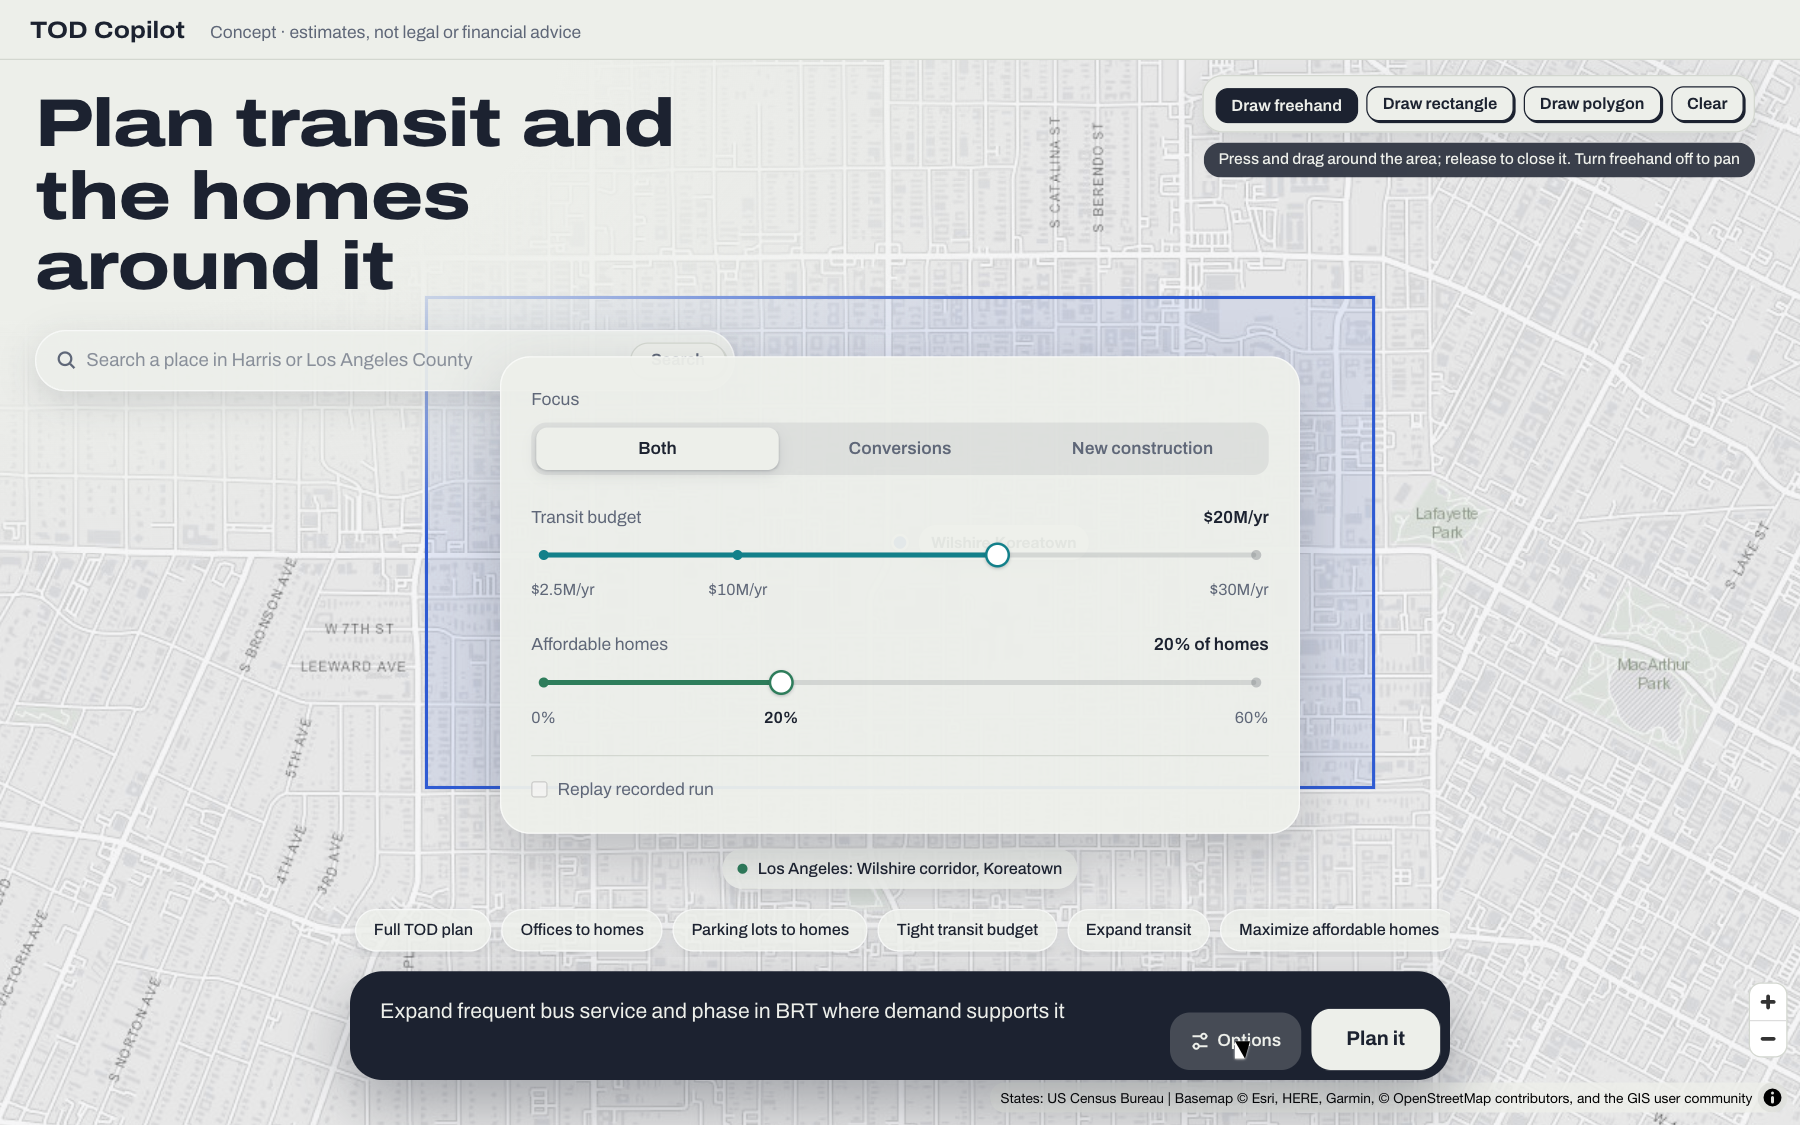
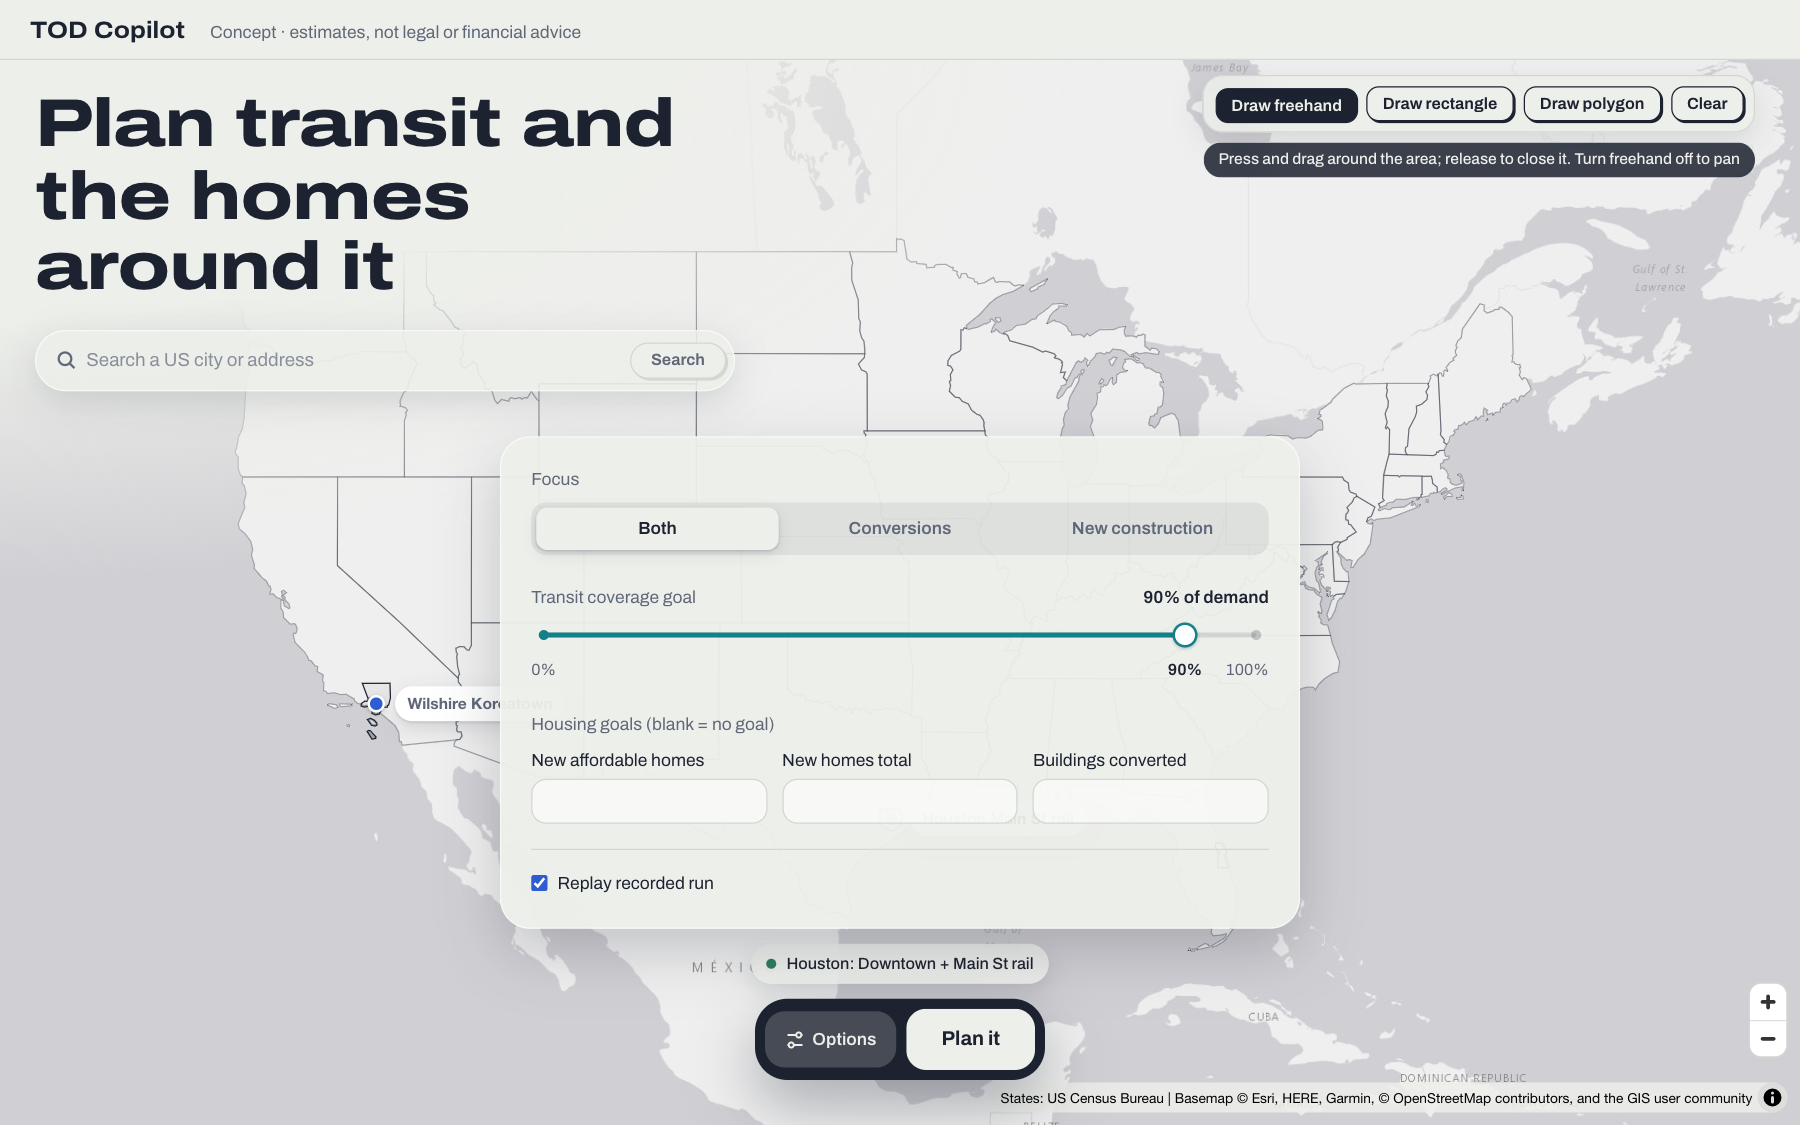
UI: drop the prompt text bar from the home page; bottom bar is Options + Plan it
- Removed the free-text prompt and the stock prompt chips that filled it; plans run with an empty prompt and
  the options chosen in the Options popover (focus and goals).
- The bottom bar shrinks to Options and Plan it; the popover stays centred over it.

diff --git a/frontend/src/screens/PromptScreen.tsx b/frontend/src/screens/PromptScreen.tsx
@@ -1,6 +1,6 @@
 import { useEffect, useRef, useState, type CSSProperties } from 'react'
 import { useNavigate } from 'react-router-dom'
-import { areaCheck, createPlan, geocode, getLocales, parsePrompt, stockPrompts } from '../api'
+import { areaCheck, createPlan, geocode, getLocales } from '../api'
 import Disclaimer from '../components/Disclaimer'
 import AreaPicker, { type PolygonGeometry } from '../components/AreaPicker'
 import Segmented from '../components/Segmented'
@@ -14,7 +14,6 @@ import {
   type Locale,
   type PlanGoals,
   type PlanOptions,
-  type StockPrompt,
 } from '../types'
 
 const REPLAY_HINT = 'Replays exist only for whole recorded areas with default options; this runs live'
@@ -33,8 +32,8 @@ const HOUSING_GOALS: { key: Exclude<keyof PlanGoals, 'transit_coverage_pct'>; la
 // A UI limit, not a model factor: the backend accepts any coverage goal from 0 to 100.
 const COVERAGE_RANGE = { min: 0, max: 100, step: 5 }
 
-// Screen space the floating headline, search and prompt bar cover, so the US view and fly-tos land in what is left.
-const MAP_PADDING = { top: 150, right: 24, bottom: 230, left: 24 }
+// Screen space the floating headline, search and bottom bar cover, so the US view and fly-tos land in what is left.
+const MAP_PADDING = { top: 150, right: 24, bottom: 140, left: 24 }
 
 export default function PromptScreen() {
   const navigate = useNavigate()
@@ -47,14 +46,9 @@ export default function PromptScreen() {
   const [query, setQuery] = useState('')
   const [results, setResults] = useState<GeocodeResult[] | null>(null)
   const [searching, setSearching] = useState(false)
-  const [stock, setStock] = useState<StockPrompt[]>([])
-  const [prompt, setPrompt] = useState('')
   const [options, setOptions] = useState<PlanOptions>(DEFAULT_PLAN_OPTIONS)
-  const [focusTouched, setFocusTouched] = useState(false)
   const [replay, setReplay] = useState(true)
   const [submitting, setSubmitting] = useState(false)
-  const parseSeq = useRef(0)
-  const typing = useRef(0)
   const [optionsOpen, setOptionsOpen] = useState(false)
   const optionsRef = useRef<HTMLDivElement>(null)
   const optionsButtonRef = useRef<HTMLButtonElement>(null)
@@ -82,26 +76,7 @@ export default function PromptScreen() {
         if (ls.length) setSelected((s) => s ?? ls[0].id)
       })
       .catch((e: Error) => setError(e.message))
-    stockPrompts()
-      .then(setStock)
-      .catch(() => {
-        // chips are optional; the free-text prompt still works
-      })
   }, [])
-
-  // Free text steers the focus until the user picks one.
-  useEffect(() => {
-    if (focusTouched || !prompt.trim()) return
-    const seq = ++parseSeq.current
-    const t = setTimeout(() => {
-      parsePrompt(prompt)
-        .then((p) => {
-          if (seq === parseSeq.current) setOptions((o) => ({ ...o, focus: p.focus }))
-        })
-        .catch(() => {})
-    }, 300)
-    return () => clearTimeout(t)
-  }, [prompt, focusTouched])
 
   // Server decides what a drawn boundary runs as (sub-area, metro, or rejected).
   const [check, setCheck] = useState<AreaCheck | null>(null)
@@ -128,10 +103,7 @@ export default function PromptScreen() {
   const replayAllowed = wholeLocale !== null && defaultOptions
   const replayOn = replay && replayAllowed
   const areaOk = wholeLocale !== null || (check !== null && check.kind !== null && !check.error)
-  const canSubmit = areaOk && !submitting && (replayOn || prompt.trim().length > 0)
-
-  const chipLocaleId = areaLocaleId ?? (check?.kind === 'metro' ? check.sources_from : null)
-  const visibleStock = stock.filter((p) => p.locale_id === null || p.locale_id === chipLocaleId)
+  const canSubmit = areaOk && !submitting
 
   const onBoundary = (b: PolygonGeometry | null) => {
     setBoundary(b)
@@ -177,34 +149,7 @@ export default function PromptScreen() {
     }
   }
 
-  // A stock prompt types itself into the box (instantly under reduced motion).
-  const pickStock = (p: StockPrompt) => {
-    clearInterval(typing.current)
-    setOptions({
-      ...DEFAULT_PLAN_OPTIONS,
-      ...p.options,
-      goals: { ...DEFAULT_PLAN_OPTIONS.goals, ...p.options.goals },
-    })
-    setFocusTouched(false)
-    parseSeq.current++ // drop any in-flight parse of the old text
-    if (window.matchMedia('(prefers-reduced-motion: reduce)').matches) {
-      setPrompt(p.prompt)
-      return
-    }
-    let n = 0
-    const step = Math.max(1, Math.ceil(p.prompt.length / 30))
-    typing.current = window.setInterval(() => {
-      n = Math.min(p.prompt.length, n + step)
-      setPrompt(p.prompt.slice(0, n))
-      if (n >= p.prompt.length) clearInterval(typing.current)
-    }, 16)
-  }
-  useEffect(() => () => clearInterval(typing.current), [])
-
-  const setFocus = (v: PlanOptions['focus']) => {
-    setOptions((o) => ({ ...o, focus: v }))
-    setFocusTouched(true)
-  }
+  const setFocus = (v: PlanOptions['focus']) => setOptions((o) => ({ ...o, focus: v }))
 
   const setGoal = (k: keyof PlanGoals, v: number | null) => {
     setOptions((o) => ({ ...o, goals: { ...o.goals, [k]: v } }))
@@ -223,7 +168,7 @@ export default function PromptScreen() {
         locale_id: areaLocaleId,
         boundary,
         area_name: boundary ? areaName : null,
-        prompt: prompt.trim(),
+        prompt: '',
         options,
       })
       navigate(`/plan/${plan_id}`)
@@ -301,36 +246,6 @@ export default function PromptScreen() {
       <span className={`h-2 w-2 shrink-0 rounded-full ${statusTone === 'ok' ? 'bg-green' : statusTone === 'error' ? 'bg-gap' : 'bg-slate/50'}`} />
       <span className="truncate">{statusText}</span>
     </span>
-  )
-
-  const chips = visibleStock.length > 0 && (
-    <div className="no-scrollbar flex gap-2 overflow-x-auto px-1 pt-1 pb-1">
-      {visibleStock.map((p, i) => (
-        <button
-          key={p.id}
-          onClick={() => pickStock(p)}
-          title={p.prompt}
-          style={d(i)}
-          className="chip-in shrink-0 rounded-full border border-white/60 bg-paper/85 px-3.5 py-1.5 text-[13px] font-medium whitespace-nowrap shadow-[0_4px_14px_rgb(28_34_48/.12)] backdrop-blur-md transition-[translate,background-color] duration-200 hover:-translate-y-0.5 hover:bg-white"
-        >
-          {p.title}
-        </button>
-      ))}
-    </div>
-  )
-
-  const promptBox = (
-    <textarea
-      value={prompt}
-      onChange={(e) => {
-        clearInterval(typing.current)
-        setPrompt(e.target.value)
-      }}
-      rows={2}
-      aria-label="Prompt"
-      placeholder="What should the plan do? e.g. Plan transit-oriented development around the rail stations"
-      className="min-w-0 flex-1 resize-none bg-transparent px-4 py-3 text-[17px] leading-snug text-paper placeholder:text-paper/45 focus:outline-none"
-    />
   )
 
   const optionControls = (
@@ -435,9 +350,8 @@ export default function PromptScreen() {
           <div className="enter relative flex w-full max-w-[880px] flex-col items-center gap-3" style={d(4)}>
             {errorNote}
             {areaStatus}
-            <div className="w-full">{chips}</div>
             {optionsOpen && (
-              // centred over the prompt bar (Tailwind's translate property); pop-in animates transform, so they compose
+              // centred over the bar (Tailwind's translate property); pop-in animates transform, so they compose
               <div
                 ref={optionsRef}
                 className="pop-in absolute bottom-full left-1/2 mb-3 w-[min(640px,100%)] -translate-x-1/2 rounded-3xl border border-white/60 bg-paper/95 p-6 shadow-[0_18px_48px_rgb(28_34_48/.22)] backdrop-blur-md"
@@ -446,8 +360,7 @@ export default function PromptScreen() {
                 <div className="mt-5 border-t border-rule pt-4">{replayToggle}</div>
               </div>
             )}
-            <div className="flex w-full items-end gap-2 rounded-[26px] bg-ink p-2 shadow-[0_20px_50px_rgb(28_34_48/.35)]">
-              {promptBox}
+            <div className="flex items-center gap-2 rounded-[26px] bg-ink p-2 shadow-[0_20px_50px_rgb(28_34_48/.35)]">
               <button
                 ref={optionsButtonRef}
                 onClick={() => setOptionsOpen(!optionsOpen)}

diff --git a/frontend/src/index.css b/frontend/src/index.css
@@ -277,10 +277,6 @@ textarea:focus-visible,
 .map-in {
   animation: map-in 1100ms cubic-bezier(0.2, 0.8, 0.2, 1) both;
 }
-.chip-in {
-  animation: enter-up 500ms cubic-bezier(0.2, 0.8, 0.2, 1) both;
-  animation-delay: calc(var(--d, 0) * 45ms + 500ms);
-}
 /* status text and hints swap with a short drop-in when their content changes (keyed in React) */
 @keyframes hint-in {
   from {

diff --git a/docs/06-frontend.md b/docs/06-frontend.md
@@ -4,7 +4,7 @@ Vite + React + TypeScript, MapLibre GL JS with deck.gl layers, Tailwind. Dark th
 
 ## Screens
 
-1. **Prompt (home):** a full-screen area map under the header, with the headline and a place search (any US county) floating top-left, the draw tools top-right, and a dark prompt bar at the bottom (stock prompt chips above it type themselves into the box; an Options popover centred over the bar holds Focus (segmented control), a transit coverage goal slider (% of demand, resting on `transit_coverage_goal_pct`), three housing goal fields (new affordable homes, new homes total, buildings converted; blank = no goal), and Replay recorded run; Escape or a click outside closes it). On load the headline lines slide up, the blocks rise in and the map glides onto the lower 48 states. The map is held to the lower 48 and draws state lines (US Census Bureau; `frontend/public/geo/us-states.geojson`, built by `scripts/build_us_reference.py`); below zoom 8 the states are filled with the base's land colour so the base tiles' country and state names don't show. Houston and LA are pins; clicking one flies there and picks that recorded area (Brevard has no pin, so the home page cannot pick it). Areas are drawn freehand (on by default and again after Clear; traced as an open line while the button is held, closed into a polygon on release, as on Zillow), as a rectangle (press, drag, release) or as a polygon (click corners); pressing the active draw button turns it off so the map pans. A status pill above the chips says what the selection will run as. Header note: "Concept · estimates, not legal or financial advice."
+1. **Prompt (home):** a full-screen area map under the header, with the headline and a place search (any US county) floating top-left, the draw tools top-right, and a small dark bar at the bottom with Options and "Plan it" (no free-text prompt; plans run with an empty prompt and the chosen options). Options opens a popover centred over the bar with Focus (segmented control), a transit coverage goal slider (% of demand, resting on `transit_coverage_goal_pct`), three housing goal fields (new affordable homes, new homes total, buildings converted; blank = no goal), and Replay recorded run; Escape or a click outside closes it. On load the headline lines slide up, the blocks rise in and the map glides onto the lower 48 states. The map is held to the lower 48 and draws state lines (US Census Bureau; `frontend/public/geo/us-states.geojson`, built by `scripts/build_us_reference.py`); below zoom 8 the states are filled with the base's land colour so the base tiles' country and state names don't show. Houston and LA are pins; clicking one flies there and picks that recorded area (Brevard has no pin, so the home page cannot pick it). Areas are drawn freehand (on by default and again after Clear; traced as an open line while the button is held, closed into a polygon on release, as on Zillow), as a rectangle (press, drag, release) or as a polygon (click corners); pressing the active draw button turns it off so the map pans. A status pill above the bar says what the selection will run as. Header note: "Concept · estimates, not legal or financial advice."
 2. **Plan view (main):**
    - Left column (30% by default, resizable with a draggable divider, kept per browser): agent checklist (8 rows: pending / running / done / error), then a detail card for the selected agent.
    - Right: map, full height, with a layer toggle panel.
